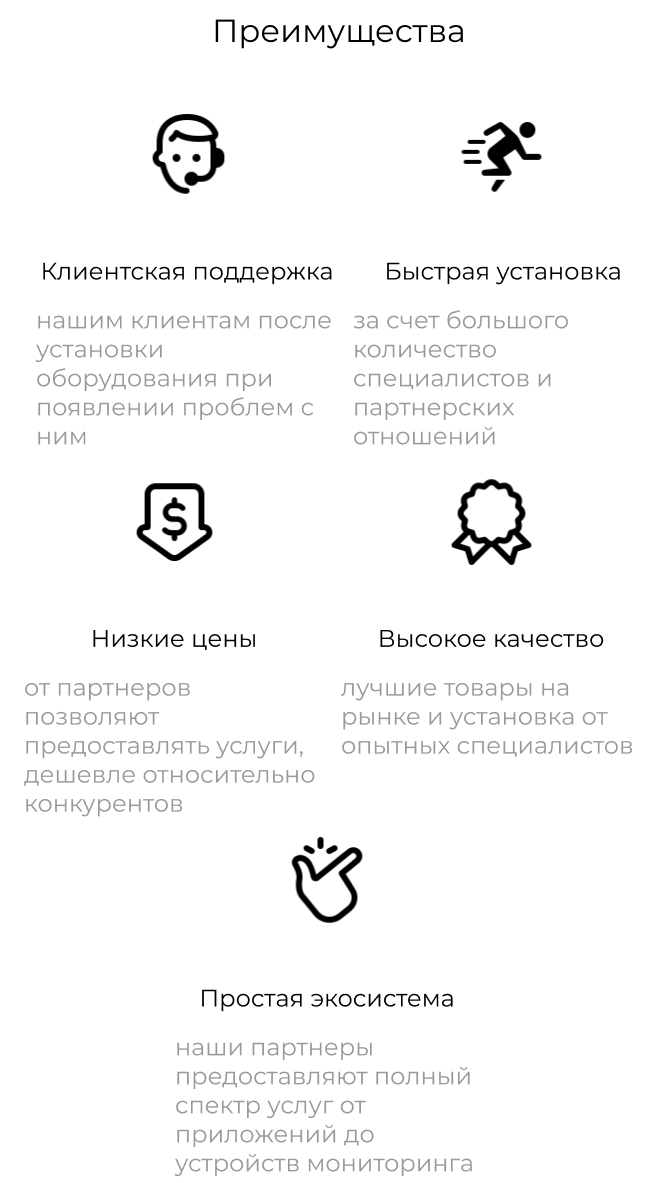
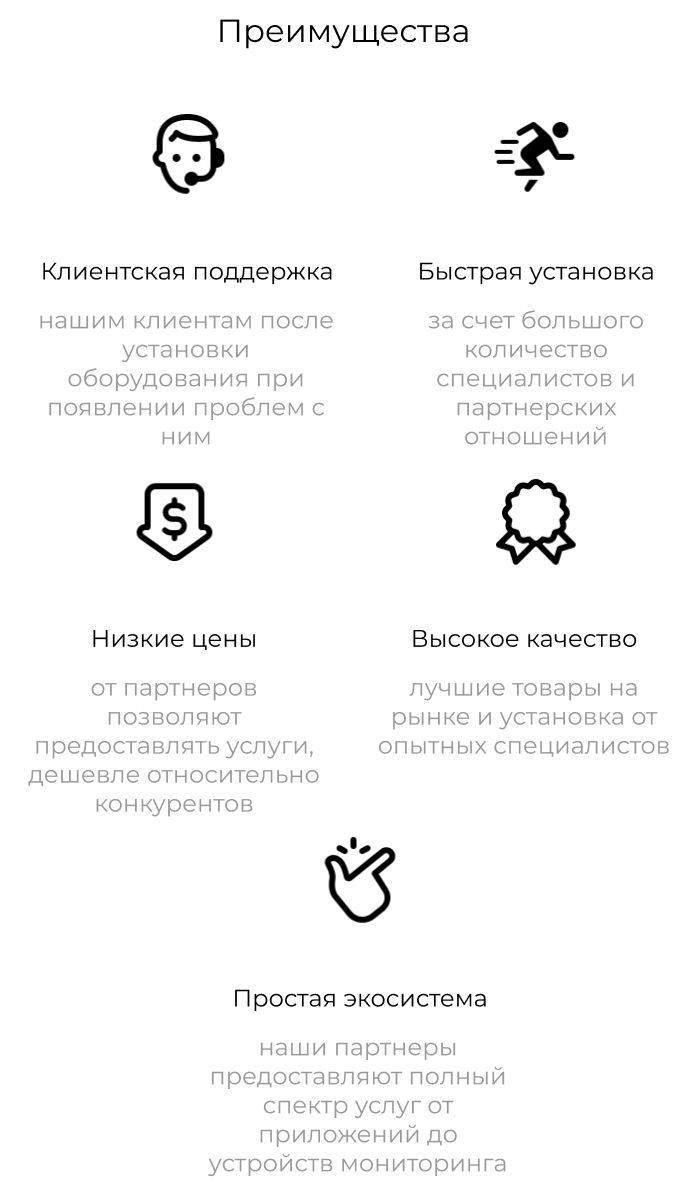
1

diff --git a/pp2216/index.html b/pp2216/index.html
@@ -61,8 +61,7 @@
 
             img{width: 90vw;}
 
-
-            
+            h2{text-align: center;}
         }
     </style>
     <header>
@@ -147,20 +146,20 @@
             <div class="divider"></div>
             <div class="block">
                 <img src="../image 11.png" alt="1">
-                <p>Категория M2 - транспортные средства, используемые для перевозки пассажиров, имеющие, помимо места водителя, более восьми мест для сидения, технически допустимая максимальная масса которых не превышает 5000 кг.
+                <p>Категория <b>M2</b> - транспортные средства, используемые для перевозки пассажиров, имеющие, помимо места водителя, более восьми мест для сидения, технически допустимая максимальная масса которых не превышает 5000 кг.
                 </p>
             </div>
             <div class="divider"></div>
             <div class="block">
                 <img src="../image 12.png" alt="2">
-                <p>Категория M3 - транспортные средства, используемые для перевозки пассажиров, имеющие, помимо места водителя, более восьми мест для сидения, технически допустимая максимальная масса которых не превышает 15000 кг.               </p>
+                <p>Категория <b>M3</b> - транспортные средства, используемые для перевозки пассажиров, имеющие, помимо места водителя, более восьми мест для сидения, технически допустимая максимальная масса которых не превышает 15000 кг.               </p>
             </div>
             <div class="divider"></div>
             <div class="block">
                 <img src="../image 13.png" alt="3">
-                <p>Категория N1 - Транспортные средства, предназначенные для перевозки грузов, имеющие технически допустимую максимальную массу не более 3,5 т. <br>
-                    Категория N2 - Транспортные средства, предназначенные для перевозки грузов, имеющие технически допустимую максимальную массу свыше 3,5 т, но не более 12 т.  <br>
-                    Категория N3 - Транспортные средства, предназначенные для перевозки грузов, имеющие технически допустимую максимальную массу более 12 т. </p>
+                <p>Категория <b>N1</b> - Транспортные средства, предназначенные для перевозки грузов, имеющие технически допустимую максимальную массу не более 3,5 т. <br>
+                    Категория <b>N2</b> - Транспортные средства, предназначенные для перевозки грузов, имеющие технически допустимую максимальную массу свыше 3,5 т, но не более 12 т.  <br>
+                    Категория <b>N3</b> - Транспортные средства, предназначенные для перевозки грузов, имеющие технически допустимую максимальную массу более 12 т. </p>
             </div>
             
         </div>

diff --git a/pp909/index.html b/pp909/index.html
@@ -64,8 +64,7 @@
 
             img{width: 90vw;}
 
-
-            
+            h2{text-align: center;}            
         }
     </style>
     <header>
@@ -130,19 +129,19 @@
                     <img src="../image 10.png" alt="1">
                     <img src="../image 9.png" alt="01">
                 </div>
-                <p>Категория M2 - Транспортные средства, используемые для перевозки пассажиров, имеющие, помимо места водителя, более восьми мест для сидения, технически допустимая максимальная масса которых не превышает 5 т</p>
+                <p>Категория <b>M2</b> - Транспортные средства, используемые для перевозки пассажиров, имеющие, помимо места водителя, более восьми мест для сидения, технически допустимая максимальная масса которых не превышает 5 т</p>
             </div>
             <div class="divider"></div>
             <div class="block">
                 <img src="../image 7.png" alt="2">
-                <p>Категория M3 - Транспортные средства, используемые для перевозки пассажиров, имеющие, помимо места водителя, более восьми мест для сидения, технически допустимая максимальная масса которых превышает 5 т</p>
+                <p>Категория <b>M3</b> - Транспортные средства, используемые для перевозки пассажиров, имеющие, помимо места водителя, более восьми мест для сидения, технически допустимая максимальная масса которых превышает 5 т</p>
             </div>
             <div class="divider"></div>
             <div class="block">
                 <img src="../image 8.png" alt="3">
-                <p>Категория N1 - Транспортные средства, предназначенные для перевозки грузов, имеющие технически допустимую максимальную массу не более 3,5 т. <br>
-                    Категория N2 - Транспортные средства, предназначенные для перевозки грузов, имеющие технически допустимую максимальную массу свыше 3,5 т, но не более 12 т.  <br>
-                    Категория N3 - Транспортные средства, предназначенные для перевозки грузов, имеющие технически допустимую максимальную массу более 12 т. </p>
+                <p>Категория <b>N1</b> - Транспортные средства, предназначенные для перевозки грузов, имеющие технически допустимую максимальную массу не более 3,5 т. <br>
+                    Категория <b>N2</b> - Транспортные средства, предназначенные для перевозки грузов, имеющие технически допустимую максимальную массу свыше 3,5 т, но не более 12 т.  <br>
+                    Категория <b>N3</b> - Транспортные средства, предназначенные для перевозки грузов, имеющие технически допустимую максимальную массу более 12 т. </p>
             </div>
             
         </div>

diff --git a/index.html b/index.html
@@ -145,7 +145,7 @@
         </div>
         <div class="link">
             <a href="https://t.me/azimutelematika"><svg fill="#000000" xmlns="http://www.w3.org/2000/svg"  viewBox="0 0 50 50" width="50px" height="50px"><path d="M25,2c12.703,0,23,10.297,23,23S37.703,48,25,48S2,37.703,2,25S12.297,2,25,2z M32.934,34.375	c0.423-1.298,2.405-14.234,2.65-16.783c0.074-0.772-0.17-1.285-0.648-1.514c-0.578-0.278-1.434-0.139-2.427,0.219	c-1.362,0.491-18.774,7.884-19.78,8.312c-0.954,0.405-1.856,0.847-1.856,1.487c0,0.45,0.267,0.703,1.003,0.966	c0.766,0.273,2.695,0.858,3.834,1.172c1.097,0.303,2.346,0.04,3.046-0.395c0.742-0.461,9.305-6.191,9.92-6.693	c0.614-0.502,1.104,0.141,0.602,0.644c-0.502,0.502-6.38,6.207-7.155,6.997c-0.941,0.959-0.273,1.953,0.358,2.351	c0.721,0.454,5.906,3.932,6.687,4.49c0.781,0.558,1.573,0.811,2.298,0.811C32.191,36.439,32.573,35.484,32.934,34.375z"/></svg>
-            <p>@azimutelematika</p>
+            <p>Написать в телеграм</p>
             </a>
             <a href="tel:+79210945180">
                 <?xml version="1.0" encoding="UTF-8"?><svg xmlns="http://www.w3.org/2000/svg" viewBox="0 0 18 18"><g id="a"/><g id="b"><g id="c"><path d="M13.63,18c-.96,0-1.92-.36-2.65-1.1L1.1,7.01C-.37,5.55-.37,3.18,1.1,1.72L2.16,.66c.88-.88,2.3-.88,3.18,0l2.12,2.12c.88,.88,.88,2.3,0,3.18l-.53,.53,4.59,4.59,.53-.53c.88-.88,2.3-.88,3.18,0l2.12,2.12c.88,.88,.88,2.3,0,3.18l-1.06,1.06c-.73,.73-1.69,1.1-2.65,1.1ZM3.74,1.5c-.19,0-.38,.07-.53,.22l-1.06,1.06c-.88,.88-.88,2.3,0,3.18L12.04,15.85c.88,.88,2.3,.88,3.18,0l1.06-1.06c.29-.29,.29-.77,0-1.06l-2.12-2.12c-.29-.29-.77-.29-1.06,0l-1.59,1.59L4.8,6.48l1.59-1.59c.29-.29,.29-.77,0-1.06L4.27,1.72c-.15-.15-.34-.22-.53-.22Z"/></g></g></svg>

diff --git a/monitoring/index.html b/monitoring/index.html
@@ -135,7 +135,7 @@
                     <li>Контроль территорий</li>
                     <li>Контроль качества вождения</li>
                     <li>Видеомониторинг</li>
-                    <li>Оповещение в телеграм</li>
+                    <li>Оповещение о событиях в телеграм</li>
                     </ul>
                 </div>
                 <div class="video">
